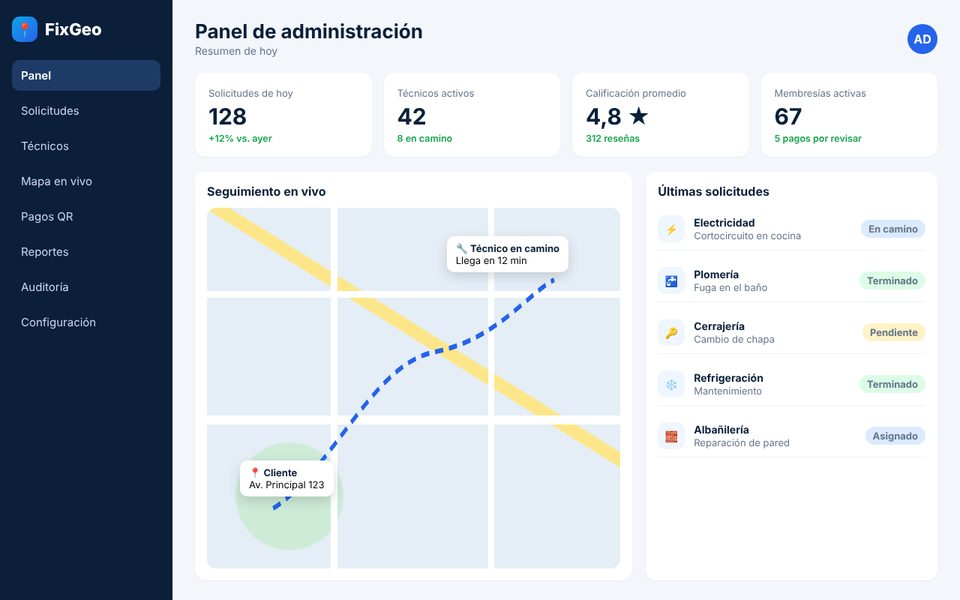
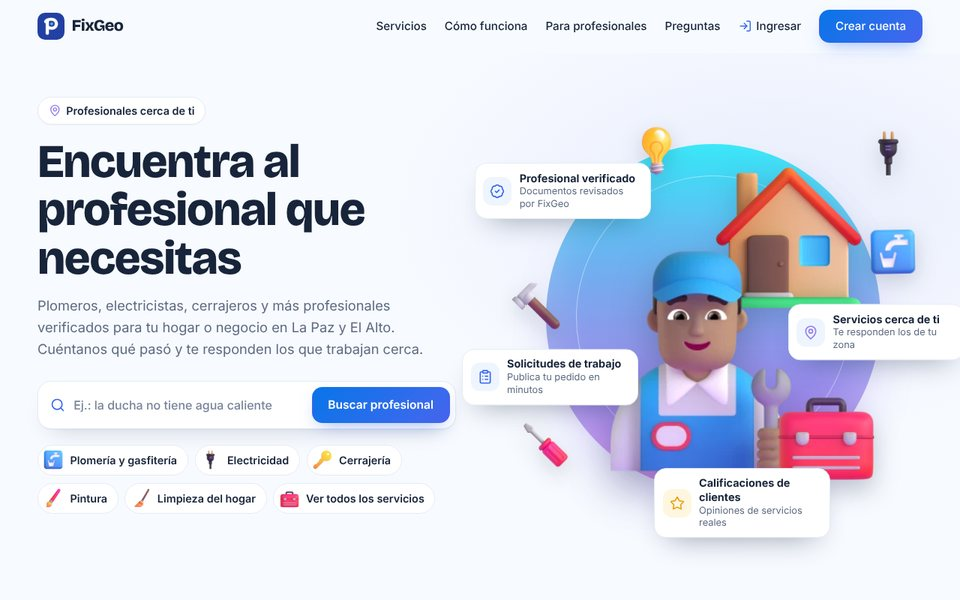
Add files via upload

diff --git a/index.html b/index.html
@@ -393,7 +393,7 @@ footer a{color:var(--ink)}
       </article>
 
       <article class="tile pc rv" style="--d:1" data-k="cliente">
-        <div class="im"><img src="img/fixgeo.jpg" alt="Panel de administración de FixGeo" loading="lazy"><a class="go" href="https://fixgeo.net" target="_blank" rel="noopener">Ver sitio en vivo ↗</a></div>
+        <div class="im"><img src="img/fixgeo.jpg" alt="Página de inicio de fixgeo.net" loading="lazy"><a class="go" href="https://fixgeo.net" target="_blank" rel="noopener">Ver sitio en vivo ↗</a></div>
         <div class="tx">
           <div class="who">Plataforma de servicios técnicos <span class="bd">Cliente</span><span class="bd g">En línea</span></div>
           <h3>FixGeo</h3>
